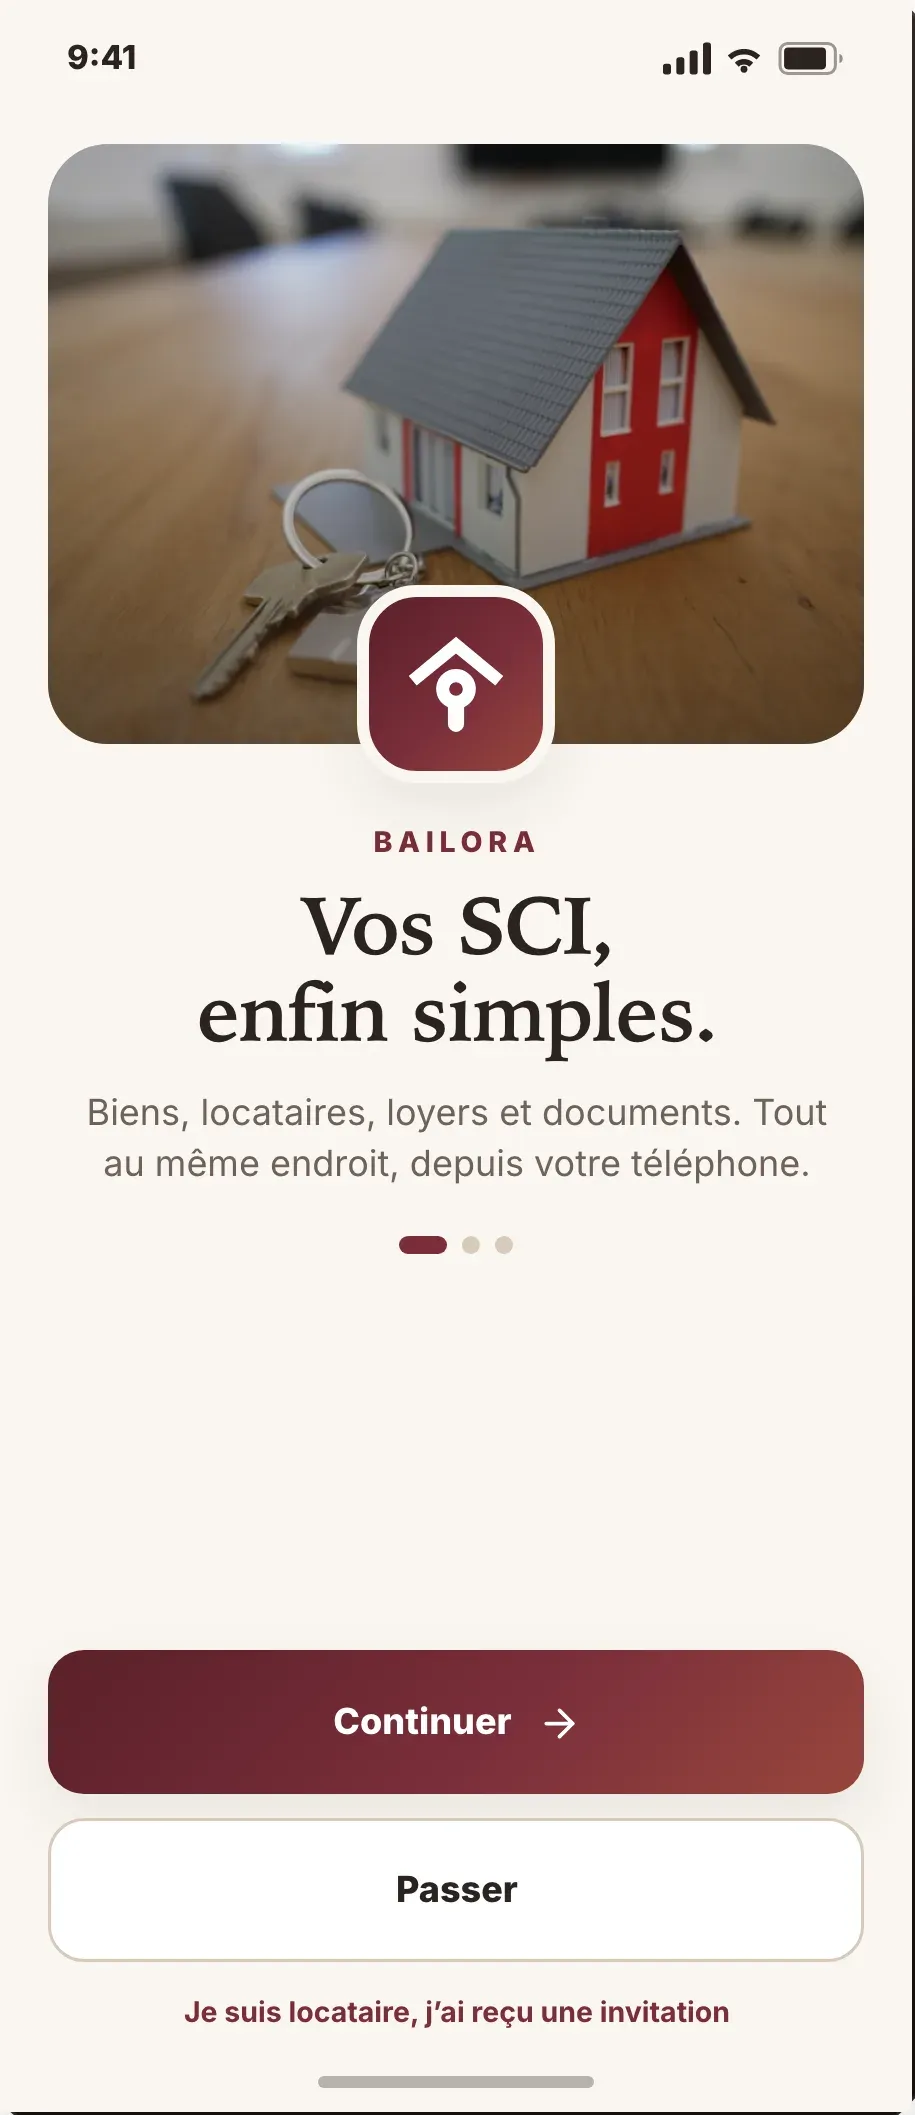
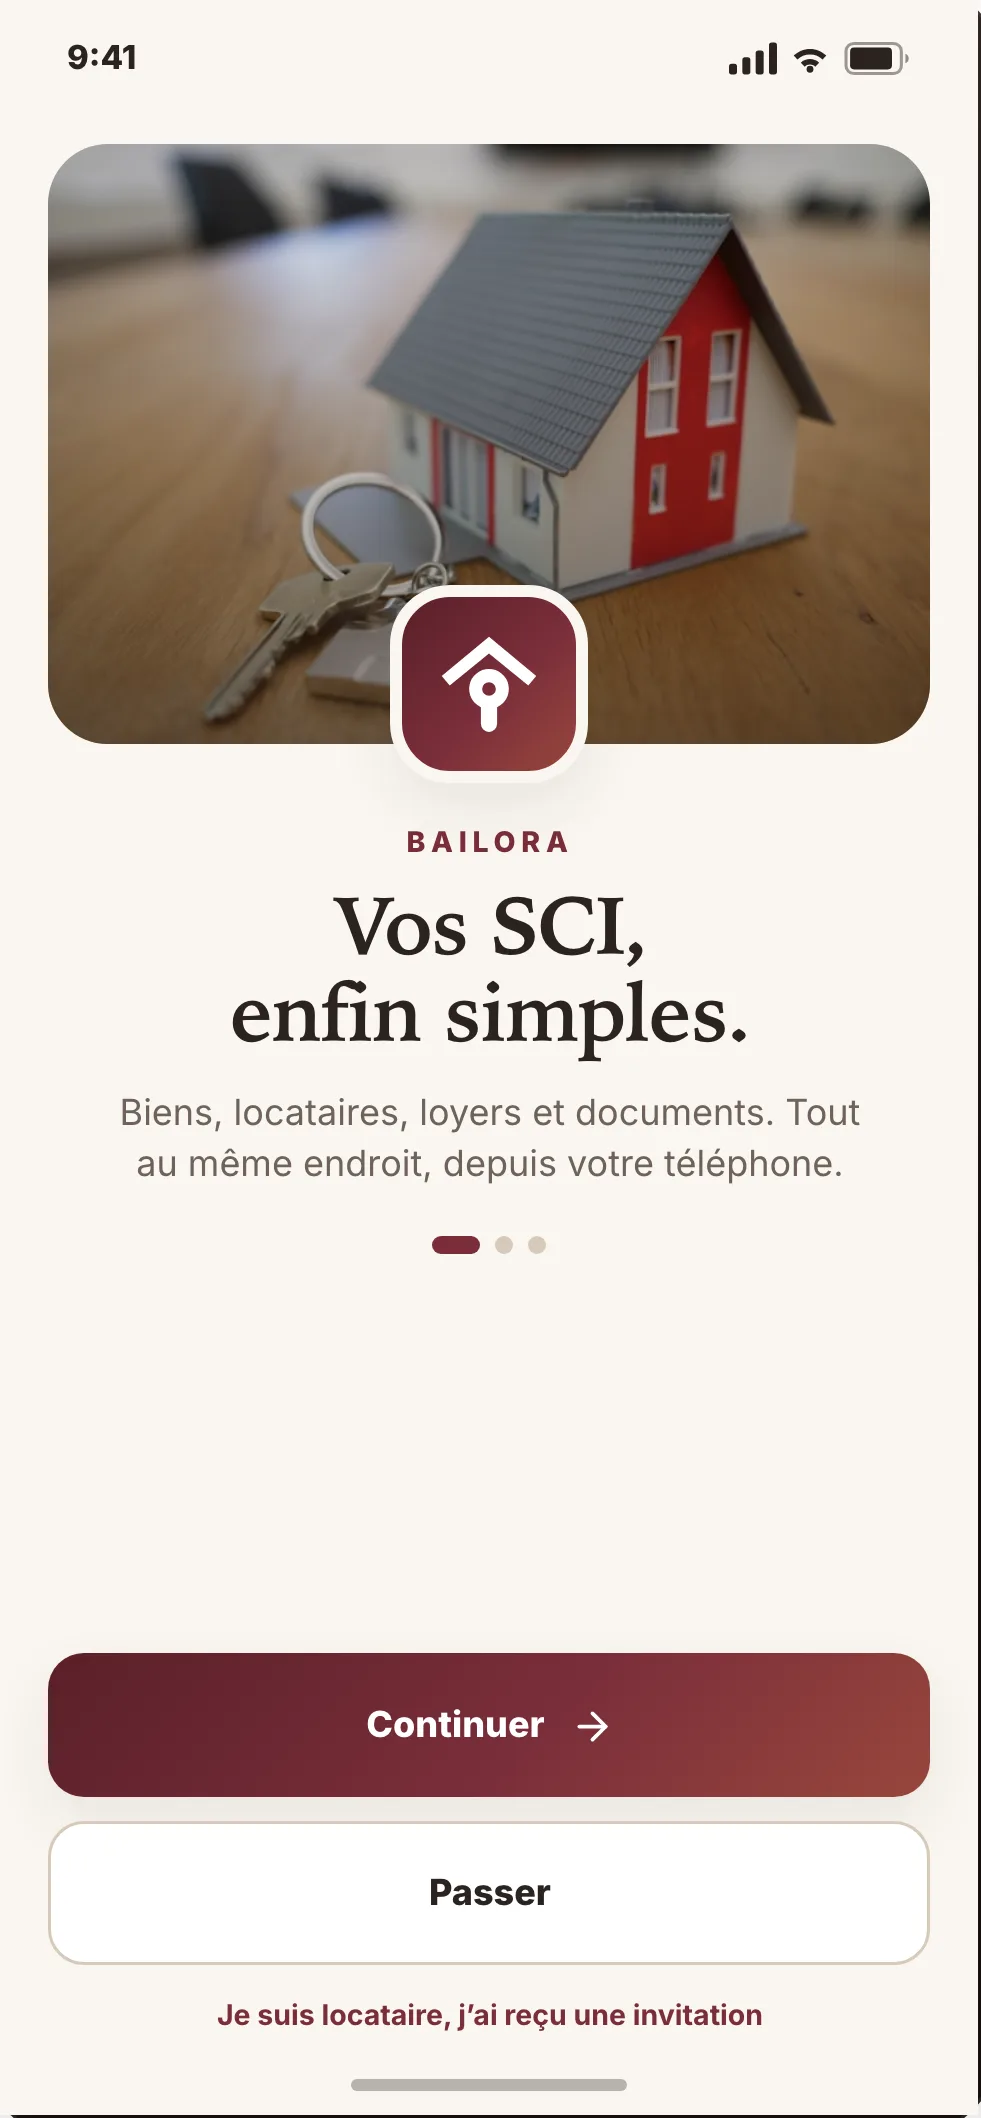
Le téléphone retrouve la silhouette d'un iPhone
Un iPhone a un écran logique de 390 x 844, soit un rapport de 0,4621.
La maquette rend le sien à 304 de large, déjà plus allongé qu'un vrai
téléphone ; en ramenant les quatre écrans à une hauteur commune pour
aligner la galerie, on tombait à 0,4318. Le téléphone paraissait
étiré, et il l'était.

Le remède n'est pas de raccourcir, ce qui couperait du contenu, mais
d'élargir. À 326 de large, l'écran le plus haut, le tableau de bord,
tient tout juste dans les 705 px qu'exige le rapport. Les quatre
écrans sont donc recapturés à 326 x 705, à la largeur voulue plutôt
que déformés après coup. Mesuré dans la page : 0,4624, à 0,06 % près.

Le cadre CSS suit, châssis 352 x 731, et le hero passe de 300 à 320 px
de large pour garder la même présence à l'écran maintenant que le
téléphone est moins haut.

diff --git a/src/index.css b/src/index.css
@@ -79,19 +79,28 @@ body {
   padding-top: var(--cale);
 }
 
-/* LE CADRE DU TÉLÉPHONE, DESSINÉ EN CSS. Mêmes mesures que la maquette
-   (châssis 330 × 730, marge 13, rayon 50, écran 304 × 704 arrondi à 39) :
-   le châssis et ses arrondis sont vectoriels, donc nets à toute densité
-   d'écran ; seul l'ÉCRAN, capturé à ×3, est une image. La largeur se règle
-   par --phone-w, tout le reste en découle. Le dégradé du châssis est celui
-   de la maquette, au degré près. */
+/* LE CADRE DU TÉLÉPHONE, DESSINÉ EN CSS. Châssis 352 × 731, marge 13,
+   rayon 50, écran 326 × 705 arrondi à 39 : le châssis et ses arrondis sont
+   vectoriels, donc nets à toute densité d'écran ; seul l'ÉCRAN, capturé à ×3,
+   est une image. La largeur se règle par --phone-w, tout le reste en découle.
+   Le dégradé du châssis est celui de la maquette, au degré près.
+
+   ⚠ 326 × 705, PAS LES 304 DE LA MAQUETTE. Un iPhone a un écran logique de
+   390 × 844, soit un rapport de 0,4621. La maquette rend le sien à 304 de
+   large pour une hauteur de 674 à 724 : c'est déjà plus allongé qu'un vrai
+   téléphone, et les écrans du site, ramenés à une hauteur commune de 705 pour
+   aligner la galerie, l'étaient encore davantage (0,4318). Le remède n'est pas
+   de raccourcir, ce qui couperait du contenu, mais d'ÉLARGIR : à 326 de large,
+   le contenu le plus haut tient tout juste dans les 705 px qu'exige le rapport
+   d'un iPhone. On obtient 0,4624, à 0,07 % près. La maquette est capturée à
+   cette largeur, elle n'est pas déformée après coup. */
 .phone {
-  --phone-w: 300px;
+  --phone-w: 320px;
   position: relative;
   width: var(--phone-w);
-  aspect-ratio: 330 / 730;
-  padding: calc(var(--phone-w) * 13 / 330);
-  border-radius: calc(var(--phone-w) * 50 / 330);
+  aspect-ratio: 352 / 731;
+  padding: calc(var(--phone-w) * 13 / 352);
+  border-radius: calc(var(--phone-w) * 50 / 352);
   background: linear-gradient(150deg, #3a2f2b, #16100e 72%);
   box-shadow: inset 0 0 0 1px rgba(255, 255, 255, 0.09), var(--shadow-float);
 }
@@ -100,13 +109,13 @@ body {
   width: 100%;
   height: 100%;
   object-fit: cover;
-  border-radius: calc(var(--phone-w) * 39 / 330);
+  border-radius: calc(var(--phone-w) * 39 / 352);
 }
 /* Deux tailles, nommées par leur emploi. Dans la galerie, le téléphone prend
    toute la largeur de sa carte (unité de conteneur : le <li> est un conteneur,
    236 px qui défilent sur téléphone, une colonne de grille au-delà). */
 .phone-hero {
-  --phone-w: min(300px, 72vw);
+  --phone-w: min(320px, 74vw);
 }
 .phone-galerie {
   --phone-w: 100cqw;

diff --git a/src/components/Screenshots.tsx b/src/components/Screenshots.tsx
@@ -9,8 +9,9 @@ import etatDesLieux from '../assets/screens/etat-des-lieux.webp'
  * valeur : une seule question posée, une décision par jour. Puis le suivi des
  * loyers, l'écran le plus ouvert du mois, et l'état des lieux signé.
  *
- * LES TROIS FONT LA MÊME HAUTEUR D'ÉCRAN, 704 px, ce qui aligne la rangée au
- * pixel. C'est le tableau de bord qui la fixe, une fois retirée sa ligne
+ * LES TROIS FONT LE MÊME ÉCRAN, 326 × 705, ce qui aligne la rangée au pixel
+ * ET donne exactement le rapport d'un iPhone (voir .phone dans index.css).
+ * C'est le tableau de bord qui fixe la hauteur, une fois retirée sa ligne
  * « Assurance à renouveler » ; les deux autres écrans ont moins de contenu et
  * gagnent donc du vide en bas, ce qu'afficherait un téléphone plus haut. Rien
  * n'est coupé, rien n'est déformé.

diff --git a/src/components/PhoneFrame.tsx b/src/components/PhoneFrame.tsx
@@ -5,7 +5,7 @@
  * ses arrondis restent nets sur un écran Retina comme sur un 1×. Seul l'écran
  * est une image, capturée à ×3 sur la maquette, sans le châssis. La taille se
  * nomme par son emploi (`hero`, `galerie`), jamais en pixels dans un composant.
- * Les quatre images font 50 à 88 Ko : c'est le cœur de la page, pas un poids
+ * Les quatre images font 51 à 92 Ko : c'est le cœur de la page, pas un poids
  * à différer.
  */
 export function PhoneFrame({
@@ -25,8 +25,8 @@ export function PhoneFrame({
     <div className={`phone phone-${variante} ${className}`}>
       <img
         src={src}
-        width={915}
-        height={2115}
+        width={981}
+        height={2118}
         alt={alt}
         loading="eager"
         fetchPriority={priority ? 'high' : undefined}

diff --git a/README.md b/README.md
@@ -35,7 +35,7 @@ Tant qu'un repère jaune subsiste, **le site n'est pas publiable** : une page de
 - **Le logo** : `src/components/Mark.tsx`, le « toit-clé » copié de la maquette, tracés identiques. Icônes PNG et image de partage dans `public/`.
 - **Les écrans** : `src/assets/screens/*.webp`, capturés sur `https://noecalmes.fr/maquette/bailora/` à ×3, **sans le châssis** : le téléphone est dessiné en CSS (`.phone` dans `index.css`, `src/components/PhoneFrame.tsx`), donc net sur tout écran. Pour les refaire, trois gestes à la capture :
   1. `border-radius: 0` sur `.blr-phone` et `.blr-screen`, pour un rectangle net (le cadre CSS arrondit ensuite) ;
-  2. `min-height: 704px` sur `.blr-content`, **plancher `tall` compris**, pour que les quatre écrans sortent à la même hauteur ;
+  2. `width: 326px` sur `.blr-phone` (et 352 sur `.blr-phone-export`), plus `min-height: 705px` sur `.blr-content`, **plancher `tall` compris**. Ces deux nombres vont ensemble : voir la règle sur la silhouette, plus bas ;
   3. masquer dans le tableau de bord la ligne « Assurance à renouveler », qui le faisait dépasser à 747 ;
   4. masquer dans le suivi des loyers les trois locataires en trop, pour n'en garder que deux : Mehdi (en retard) et Sarah (payé). Trois visages de figurants en moins, et la note du bas parle justement de Sarah.
 
@@ -46,7 +46,8 @@ Tant qu'un repère jaune subsiste, **le site n'est pas publiable** : une page de
 - **Aucun tiret cadratin** dans un texte du site, titre d'onglet compris. Le séparateur est le point médian « · », celui de la maquette. Contrôle : `grep -rn "—" src/ index.html`.
 - **Aucun prix, aucune offre**, nulle part, alors que la maquette en affiche : une page web se met à jour moins souvent qu'un écran d'application. L'abonnement n'est mentionné que comme principe, et le prix affiché dans l'app fait foi.
 - **Une seule ambiance** sur tout le site, pages légales comprises. Elle se change dans `@theme`, et tout suit.
-- **Le hero montre le premier écran de l'app** (l'ouverture), la galerie montre les suivants, jamais deux fois le même. Les quatre partagent la même hauteur d'écran, **704 px**, ce qui aligne la rangée au pixel : c'est la hauteur du tableau de bord une fois retirée sa ligne « Assurance à renouveler ». Les autres écrans y tiennent et gagnent un peu de vide en bas, rien n'est coupé.
+- **Le hero montre le premier écran de l'app** (l'ouverture), la galerie montre les suivants, jamais deux fois le même. Les quatre partagent le même écran, **326 × 705**, ce qui aligne la rangée au pixel.
+- **La silhouette est celle d'un iPhone, et ces deux nombres ne se changent pas séparément.** Un iPhone a un écran logique de 390 × 844, soit un rapport de 0,4621. La maquette rend le sien à 304 de large, ce qui est déjà plus allongé qu'un vrai téléphone ; en ramenant les écrans à une hauteur commune de 705 pour aligner la galerie, on tombait à 0,4318, et le téléphone paraissait étiré. Le remède n'est pas de raccourcir, ce qui couperait du contenu, mais d'**élargir** : à 326 de large, l'écran le plus haut (le tableau de bord) tient tout juste dans les 705 px qu'exige le rapport. Mesuré dans la page : **0,4624**, à 0,06 % près. La maquette est capturée à cette largeur, l'image n'est jamais déformée après coup. Changer la hauteur oblige donc à recalculer la largeur, et à recapturer.
 - **Les écrans montrent encore quatre visages de figurants** (le service pravatar, dans la maquette) : deux locataires dans le suivi des loyers, et l'avatar du compte en haut du tableau de bord et du suivi. Ce sont des photographies de personnes réelles servant de bouche-trou : acceptables dans une maquette privée, discutables sur un site public. Pour les faire disparaître entièrement, masquer `.blr-avatar img` à la capture : le cercle beige de la maquette reste, et c'est exactement ce qu'affiche l'app pour un locataire sans photo.
 - **Aucune modification n'est faite dans la maquette.** Tout ce que le site retire (la ligne « Assurance », les trois locataires) est masqué au moment de la capture. `landing-page/src/BailoraMockups.jsx` reste intact : c'est le livrable du client.
 - **Icône et libellé sur la même ligne.** Une icône SVG est un bloc qui ne rétrécit pas (règle globale d'`index.css`), donc centrée par construction. Le calage `.cale` vaut `0em` parce qu'Inter a l'axe optique équilibré : mesuré dans le navigateur, l'écart entre le centre des capitales et le centre de l'icône est de **0,04 px**. Changer de police se fera en changeant ce seul nombre.
